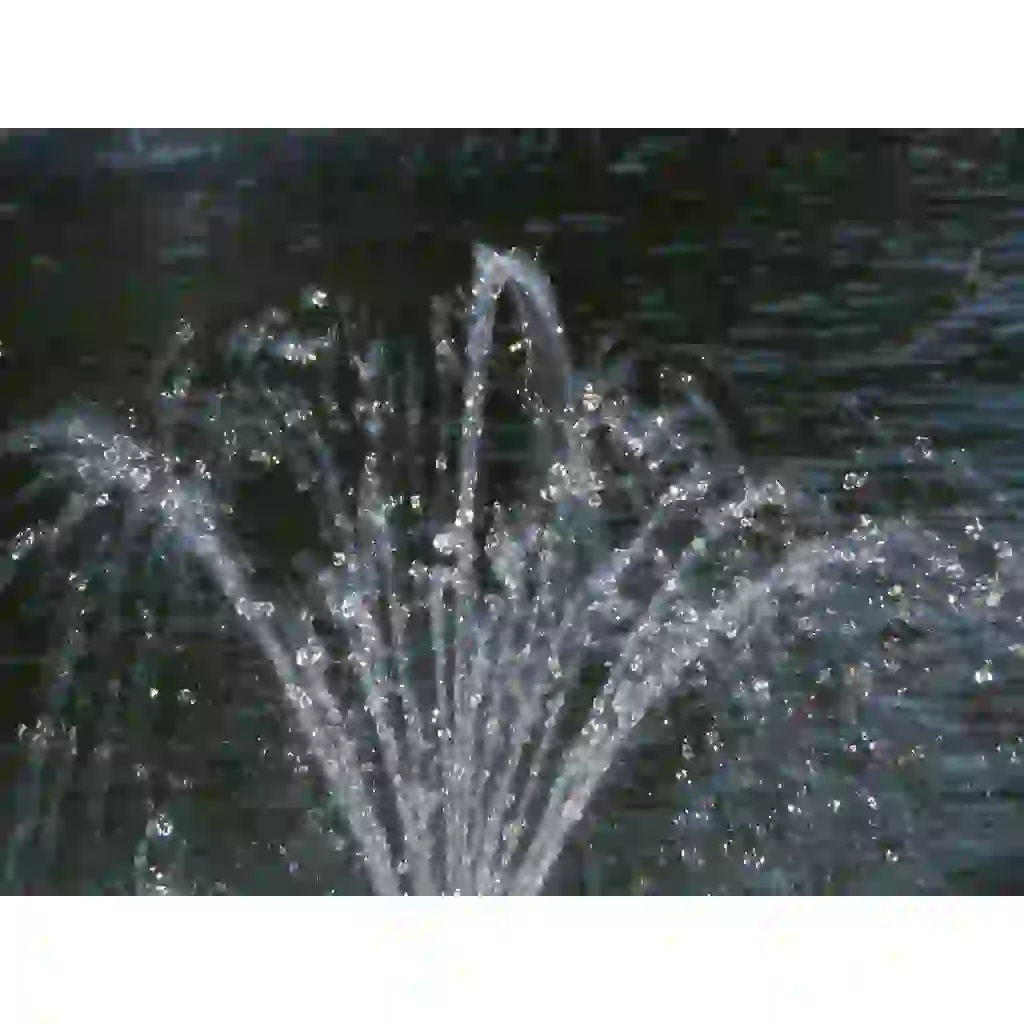
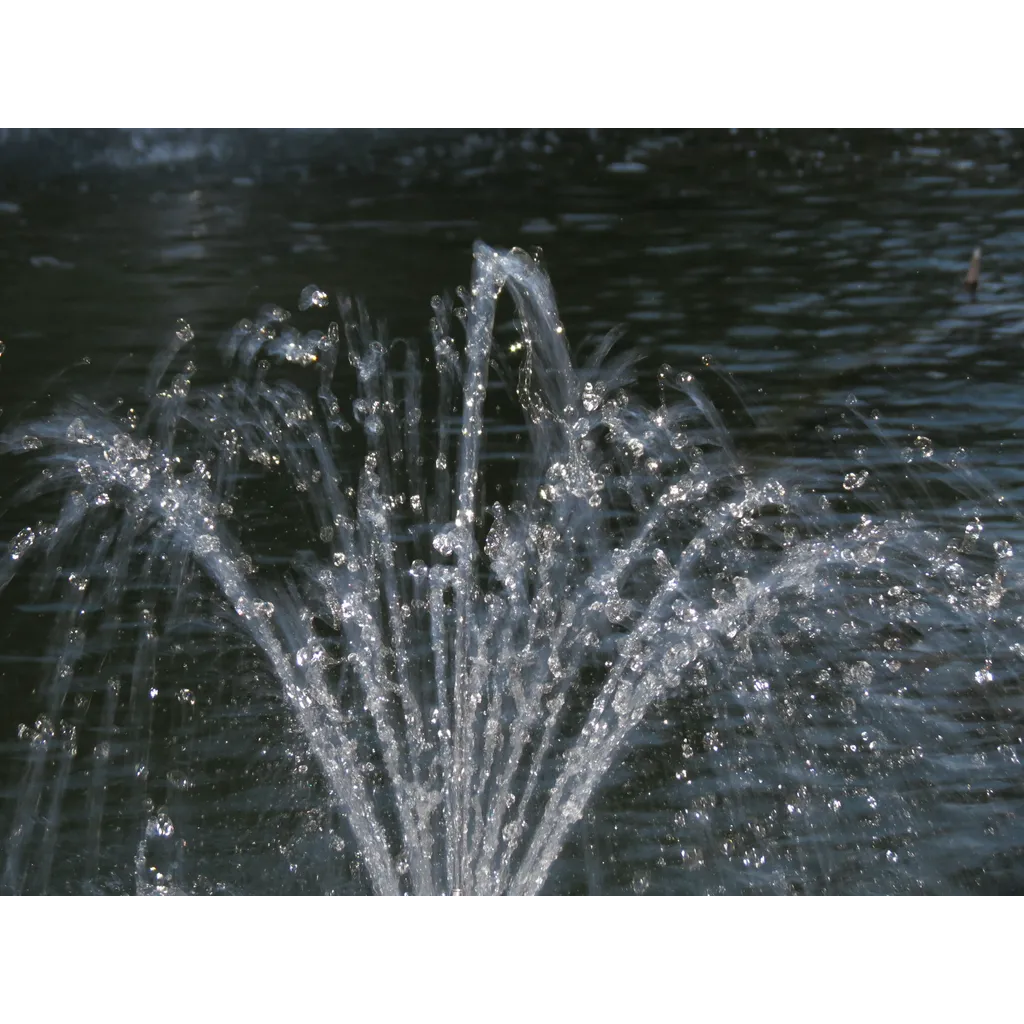
Webp lossless setup

diff --git a/main.go b/main.go
@@ -61,12 +61,12 @@ func resizeJpgToSquare(inputPath, outputPath string) error {
 
 func resizeWebpToSquare(inputPath, outputPath string) error {
 	return resizeImage(inputPath, outputPath, func(w io.Writer, img image.Image) error {
-		return webp.Encode(w, img, &webp.Options{Lossless: false})
+		return webp.Encode(w, img, &webp.Options{Lossless: true})
 	})
 }
 
 func jpegEncodeWrapper(w io.Writer, img image.Image) error {
-	return jpeg.Encode(w, img, nil) // You can specify options here if needed
+	return jpeg.Encode(w, img, nil)
 }
 
 func resizeImage(inputPath, outputPath string, encodeFunc func(io.Writer, image.Image) error) error {
@@ -111,11 +111,4 @@ func createSquareImage(img image.Image) *image.RGBA {
 		draw.Over)
 
 	return squareImg
-}
-
-func max(a, b int) int {
-	if a > b {
-		return a
-	}
-	return b
 }
